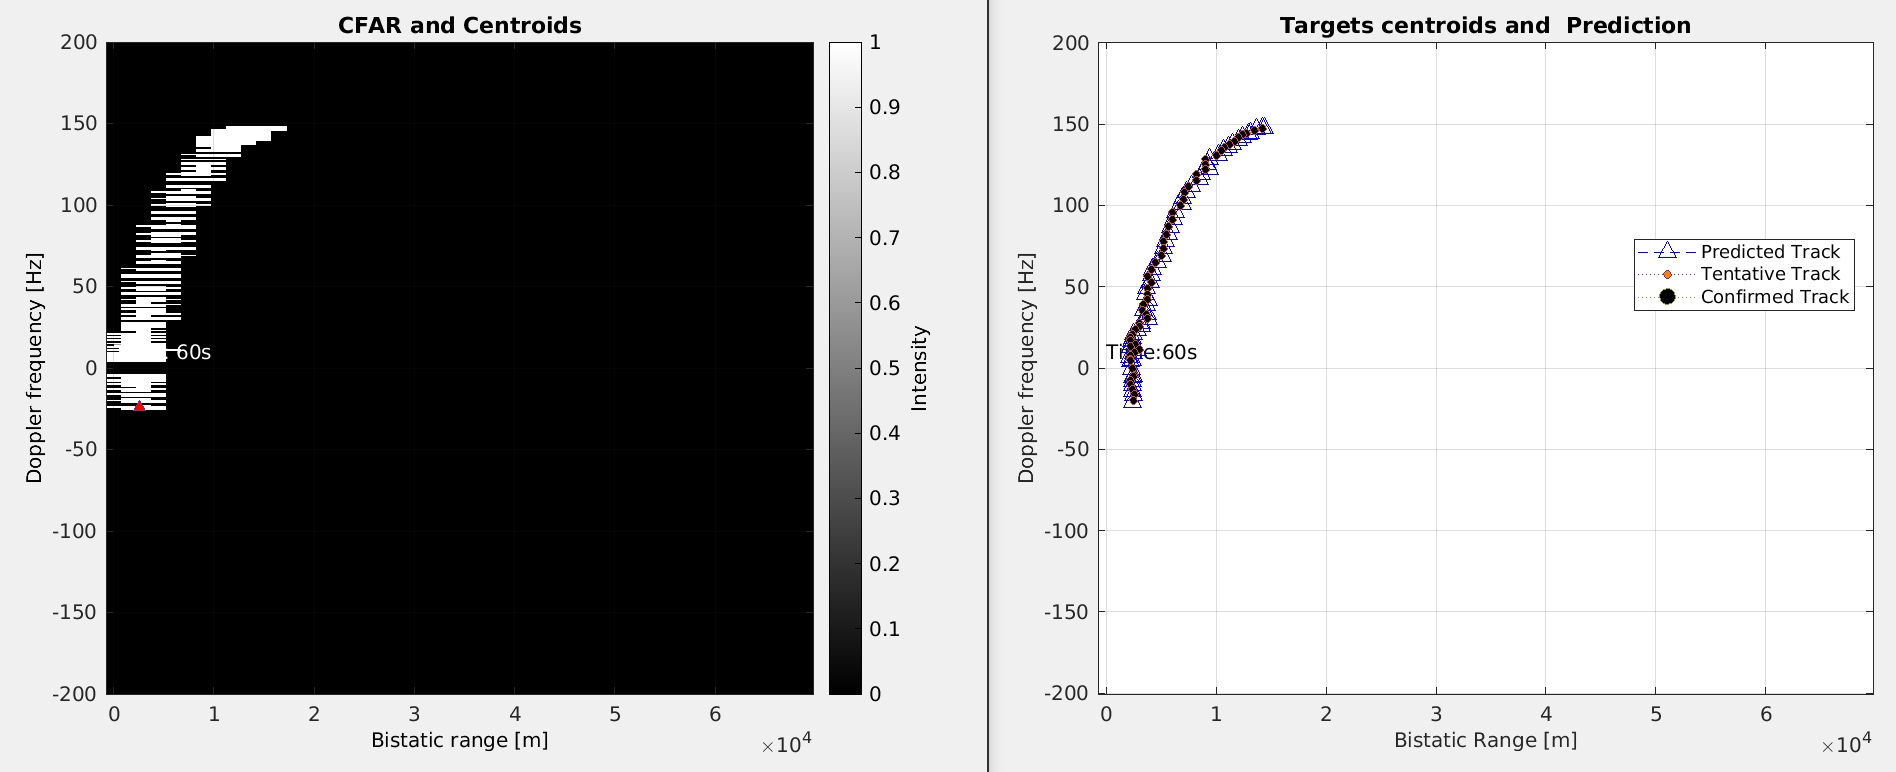
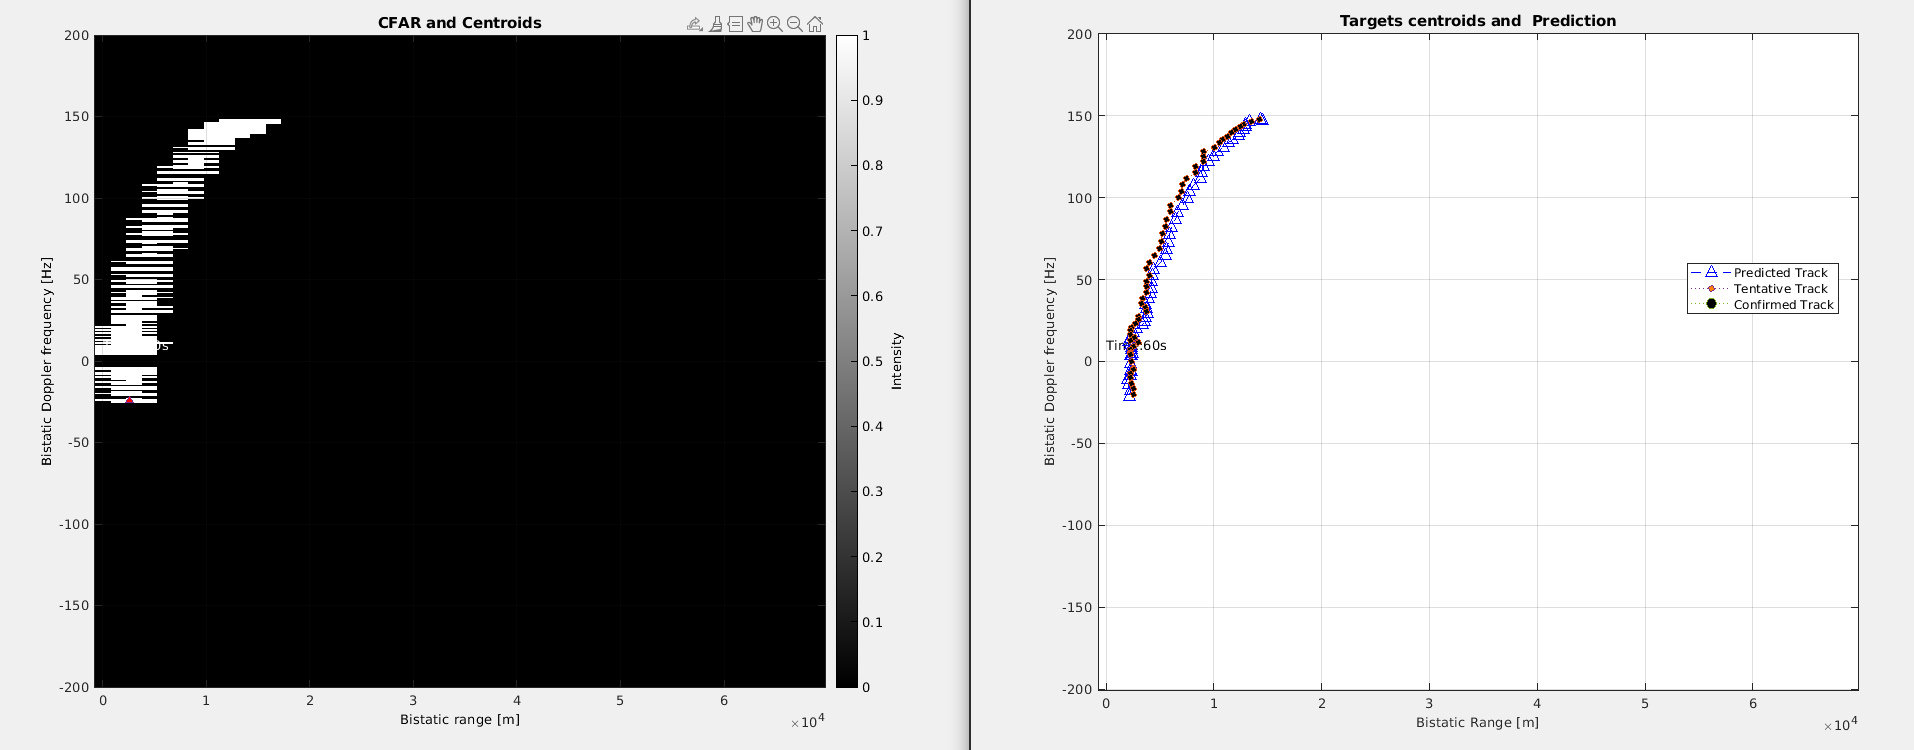
Testing

diff --git a/CFAR/ca_cfarPlot.m b/CFAR/ca_cfarPlot.m
@@ -4,7 +4,7 @@
 %G : Number of Guard cells
 %cut : the magnitiude cells of the Range Doppler map
 
-function [targetClusters,RDM,rdm_] = ca_cfarPlot(RDM,rate_fa,fs,fd_max,td_max,index,f,rdm,plotResults)
+function [targetClusters,RDM,rdm_] = ca_cfarPlot(RDM,rate_fa,fs,fd_max,td_max,index,f,rdm)
 %Generates a CFAR output map in the range-doppler domain
 %Firstly calculate the interference power from the average of N samples in
 %the vicinity of the CUT
@@ -63,24 +63,22 @@ rdm = min(rdm, 1);  % Set maximum value to 1
 rdm_ = rdm;
 
 
-if(plotResults)
-    figure(f);
-    imagesc(range, frequency, rdm_);
-    colormap(gca, 'gray'); % Set the colormap to 'gray'
-    c = colorbar;
-    c.Label.String = 'Intensity';
-    c.FontSize = 10;
-    c.Color = 'black'; % Set colorbar label color to white
-    set(gca, 'Color', 'black'); % Set background color to black
-    text(0, 10, "Time: " + index + "s", 'Color', 'white'); % Set text color to white
-    axis xy;
-    xlabel('Bistatic range [m]', 'FontSize', 10, 'Color', 'black'); % Set xlabel color to white
-    ylabel('Doppler frequency [Hz]', 'FontSize', 10, 'Color', 'black'); % Set ylabel color to white
-    grid on;
-    title('CFAR and Centroids', 'Color', 'black'); % Set title color to white
-    %xlim([0 xlim_upper]);
-    ylim([ylim_lower ylim_upper]);
-end
+figure(f);
+imagesc(range, frequency, rdm_);
+colormap(gca, 'gray'); % Set the colormap to 'gray'
+c = colorbar;
+c.Label.String = 'Intensity';
+c.FontSize = 10;
+c.Color = 'black'; % Set colorbar label color to white
+set(gca, 'Color', 'black'); % Set background color to black
+text(0, 10, "Time: " + index + "s", 'Color', 'white'); % Set text color to white
+axis xy;
+xlabel('Bistatic range [m]', 'FontSize', 10, 'Color', 'black'); % Set xlabel color to white
+ylabel('Bistatic Doppler frequency [Hz]', 'FontSize', 10, 'Color', 'black'); % Set ylabel color to white
+grid on;
+title('CFAR and Centroids', 'Color', 'black'); % Set title color to white
+%xlim([0 xlim_upper]);
+ylim([ylim_lower ylim_upper]);
 
 RDM = RDM_final;
 

diff --git a/runTrackingFilter.m b/runTrackingFilter.m
@@ -102,7 +102,6 @@ range_ll=[];
 crlb_doppler=[];
 crlb_range=[];
 
-plotResults = true;
 
 for i = 1:simulation_time
     s1 = I_Qmov(initial:current); %surv
@@ -111,14 +110,14 @@ for i = 1:simulation_time
     s1 = procECA(s2,s1,proc);
 
     %Plot Range-Doppler Map
-    [y,ard_] = ardPlot(s1,s2,fs,dopp_bins,delay,i,ard,f,plotResults);
+    [y,ard_] = ardPlot(s1,s2,fs,dopp_bins,delay,i,ard,f);
 
     %Plot CFAR from Cell-Averaging CFAR 
-    [targetClusters,RDM,rdm_] = ca_cfarPlot(10*log10(y.'),0.2,fs,dopp_bins,delay,i,f2,rdm,plotResults);                    
+    [targetClusters,RDM,rdm_] = ca_cfarPlot(10*log10(y.'),0.2,fs,dopp_bins,delay,i,f2,rdm);                    
     
     
     %Get Coordinates from CFAR using meanShift Algorithm
-    [clusterCentroids,variancesX,variancesY,numPoints] = meanShiftPlot(targetClusters,0.5e4,10,fs,dopp_bins,delay,plotResults);
+    [clusterCentroids,variancesX,variancesY,numPoints] = meanShiftPlot(targetClusters,0.5e4,10);
    
     %Plot tracks from Tracker - Call Multi-target Tracker
     multiTargetTracker = multiTargetTracker.createNewTracks(clusterCentroids);
@@ -130,13 +129,13 @@ for i = 1:simulation_time
     multiTargetTracker = multiTargetTracker.predictionStage();
 
     %PLOT Prediction and True Tracks
-    multiTargetTracker.plotMultiTargetTracking(fs,dopp_bins,delay,i,f3,RDM,plotResults)
+    multiTargetTracker.plotMultiTargetTracking(fs,dopp_bins,delay,i,f3,RDM)
 
     %UPDATE Tracks from measurements
     multiTargetTracker = multiTargetTracker.updateStage(clusterCentroids);
 
     %CALCULATE Likelihoods 
-    [doppler_ll,range_ll]=multiTargetTracker.calculateLogLikelihood(f4,f5,i,doppler_ll,range_ll,plotResults);
+    [doppler_ll,range_ll]=multiTargetTracker.calculateLogLikelihood(f4,f5,i,doppler_ll,range_ll,true);
     
     %CALCULATE ERROR 
     %[~,~]=multiTargetTracker.plotError(f4,f5,true,true,i);

diff --git a/FERS/ardNoPlot.m b/FERS/ardNoPlot.m
@@ -1,12 +1,6 @@
-function [y,ard_] = ardPlot(s1,s2,fs,fd_max,td_max,index,ard,f)
-
-%Parameters to allow zoom in
-xlim_upper = 2e-4;
-ylim_upper = 200;
-ylim_lower = -200;
+function [y,ard_] = ardNoPlot(s1,s2,fs,fd_max,td_max,index,ard)
 
 
-c = 299792458;                                               %speed of the light
 N=length(s1);                                                %number of points
 Ndelay = floor(td_max*fs);                                   %number of points corresponding to td_max
 Ndop = ceil(N*fd_max/fs);                                    %number of points corresponding to fd_max
@@ -31,14 +25,6 @@ toc
 y = abs(y1).^2;                                             %Power conversion
 y =y./max(max(abs(y)));                                     %Normalizing max to 1
 
-%Time and frequency axis
-time = 0:1/fs:Ndelay/fs;
-range = time*c;
-frequency = -fd_max:1:fd_max;
-Dyn_dB = 40;                                                %Dynamic range (dB)
-max_dB = 10*log10(max(max(abs(y))));
-tic
-
 
 %figure('Name','2D image');
 
@@ -51,18 +37,4 @@ if index>1
 end
 
 ard_ = ard;
-
-figure(f);
-imagesc(range,frequency,10*log10(ard.'),[max_dB-40 max_dB]);
-axis xy;
-colorbar;
-xlabel('Bistatic range [m]','Fontsize',10);
-ylabel('Doppler frequency [Hz]','Fontsize',10);
-grid on;
-title('Range-Doppler response')
-%display('imagesc plot computation')
-%xlim([0 xlim_upper]) 
-ylim([ylim_lower ylim_upper])
-text(0,10,"Time:" + index+ "s");
-drawnow
 

diff --git a/multiTargetTracking/track.m b/multiTargetTracking/track.m
@@ -28,15 +28,18 @@ classdef track
             
             switch filterType
                 case 1
+                    disp("Initializing Kalman Filter");
                     std_meas=[sqrt(1000),sqrt(0.1)];                      %Standard Deviation of the measurements in the x and y
                     std_acc=[5,0];                                  %Standard Deviation of the acceleration in ms^2
                     KF_object = kalmanFilter(dt,std_acc,std_meas(1),std_meas(2),[x_initial(1);x_initial(2);0;]);
                     obj.trackingFilterObject = KF_object;
                                    
                 case 2
+                    disp("Initializing Particle Filter");
+
                     N=5000;                          %Number of particles
                     std_acc=[2,0.1];                 %Standard Deviation of the acceleration in ms^2
-                    std_meas=[1000,0.1];                      %Standard Deviation of the measurements in the x and y
+                    std_meas=[2000,0.1];                      %Standard Deviation of the measurements in the x and y
 
                     PF_object = particleFilter(dt,[std_acc(1),std_acc(2)],std_meas,[x_initial(1);x_initial(2);0;],N);
                     obj.trackingFilterObject = PF_object;

diff --git a/multiTargetTracking/multiTargetTracker.m b/multiTargetTracking/multiTargetTracker.m
@@ -112,8 +112,7 @@ classdef multiTargetTracker
             
         end
 
-        function plotMultiTargetTracking(obj,fs,fd_max,td_max,index,f,RDM,plotResults)
-            if(plotResults)
+        function plotMultiTargetTracking(obj,fs,fd_max,td_max,index,f,RDM)
                 figure(f);
                 c=3e8;
                 Ndelay = floor(td_max*fs);                                 
@@ -126,7 +125,7 @@ classdef multiTargetTracker
                 text(0,10,"Time:" + index+ "s");
                 axis xy;
                 xlabel('Bistatic Range [m]','Fontsize',10);
-                ylabel('Doppler frequency [Hz]','Fontsize',10);
+                ylabel('Bistatic Doppler frequency [Hz]','Fontsize',10);
                 grid on;
                 title('Targets centroids and  Prediction');
                 
@@ -152,7 +151,6 @@ classdef multiTargetTracker
                 legend([predicted_marker,tentative_marker, confirmed_marker], 'Predicted Track', 'Tentative Track', 'Confirmed Track', 'Location', 'best');
                         
                 hold off;
-            end
         end
         function [doppler_error, range_error] = plotError(obj, f, f1, plotDoppler_Error, plotRange_Error, i)
             time = 1:1:i;

diff --git a/CFAR/ca_cfar.m b/CFAR/ca_cfar.m
@@ -4,10 +4,11 @@
 %G : Number of Guard cells
 %cut : the magnitiude cells of the Range Doppler map
 
-function RDM = ca_cfar(RDM,rate_fa)
+function [targetClusters,RDM,rdm_] = ca_cfar(RDM,rate_fa,fs,fd_max,td_max,index,rdm)
 %Generates a CFAR output map in the range-doppler domain
 %Firstly calculate the interference power from the average of N samples in
 %the vicinity of the CUT
+
 
 trc_num = 2;
 guac_num = 4;
@@ -39,6 +40,32 @@ for r=1:rows
     end
 end
 
+c=3e8;
+Ndelay = floor(td_max*fs);                                  %number of points corresponding to td_max
+time = 0:1/fs:Ndelay/fs;
+range = time*c;
+frequency = -fd_max:1:fd_max;
 
+
+if index==1
+    rdm = RDM_final ;
+end
+
+if index>1
+    rdm =rdm+RDM_final ;
+end
+rdm = min(rdm, 1);  % Set maximum value to 1
+
+rdm_ = rdm;
 
 RDM = RDM_final;
+
+[row, column] = find(RDM > 0);
+% Get target clusters as Bistatic Range and Doppler values
+
+range_values = range(column.'); % convert time values to range values
+frequency_values = frequency(row.'); % get frequency values
+
+targetClusters = [range_values; frequency_values]; % store centroids as range and frequency
+
+end

diff --git a/TrackingFilter-ParticleFilter/particleFilter.m b/TrackingFilter-ParticleFilter/particleFilter.m
@@ -31,7 +31,7 @@ classdef particleFilter
                      0, 0, 1;];
             
             
-            obj.Q = [2000,0,0;
+            obj.Q = [1000,0,0;
                      0,10,0;
                      0,0,0.1;];
             
@@ -132,7 +132,6 @@ classdef particleFilter
         end
         
         function [particles,weights] = resampleFromIndex(particles,indexes)
-            disp("RFI");
             %RESAMPLEFROMINDEX Summary of this function goes here
             %   Detailed explanation goes here
                 particles(:,1) = particles(indexes,1);

diff --git a/MeanShiftCluster/meanShift.m b/MeanShiftCluster/meanShift.m
@@ -1,5 +1,5 @@
 
-function [clustCent,xVariances,yVariances,numPoints] = meanShiftPlot(dataPoints,bandWidthX,bandWidthY)
+function [clustCent,xVariances,yVariances,numPoints] = meanShift(dataPoints,bandWidthX,bandWidthY)
 %MEANSHIFT Summary of this function goes here
 % ---INPUT---
 % dataPts           - input data, (numDim x numPts)
@@ -83,9 +83,6 @@ for cN = 1:numClust
     numPoints(cN) = size(clusterPoints,2);
 end
 
-%Plot centroids on CFAR Plot
-hold on;
-plot(clustCent(1,:),clustCent(2,:),'^','MarkerFaceColor','red', 'MarkerSize', 5);
 
 end
 
